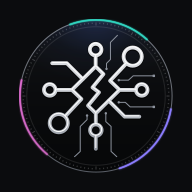
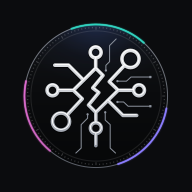
Give the seal padding so its edge isn't clipped at small sizes
The rim's stroke stays at least 1.25px, which outgrew the canvas in the header.
The canvas now leaves room for it, and the header and footer marks go up 2px so
they keep their visual size.

Claude-Session: https://claude.ai/code/session_01U614ADp9nbGW9D51g8CnAr

diff --git a/src/components/site/botlane-seal.tsx b/src/components/site/botlane-seal.tsx
@@ -8,7 +8,9 @@ import { cn } from "@/lib/utils"
 // read their own tokens, so the seal follows the theme; the disc stays dark in both themes, like a button that keeps its own material.
 const R = 376
 const REACH = 512   // half the canvas with the rings on
-const NEAT = R + 2  // half the canvas with the rings off
+// Half the canvas with the rings off. The rim's stroke stays at least 1.25px however small the seal gets, so the padding
+// grows as the size falls: enough for that stroke and 1px clear on every side.
+const neat = (size: number) => Math.ceil(Math.max(R + 26, (R - 2.5) / (1 - ((size < 24 ? 1.75 : 1.25) + 2) / size)))
 const LINE = 18.92     // the bolt's line width
 const ICON = "M-1.7 -199.3L-1.7 -145.1L36.5 -107.3L-17.2 -41.9L14.6 -17.8L-39.1 47.5L-0.9 85.3L-0.9 139.5M-0.9 196.3L-0.9 259.1M-1.7 -145.1L-118.2 -29.9L-198.6 -29.9M-0.9 85.3L115.7 -29.9L196.1 -29.9M-118.2 -29.9L-71.8 14.8L-152.2 100.8M115.7 -29.9L69.2 -74.6L149.6 -160.6M-215.0 -161.0L-143.2 -161.0L-64.5 -82.3M212.4 101.3L140.6 101.3L61.9 22.6M-30.1 -227.7a28.4 28.4 0 1 0 56.8 0a28.4 28.4 0 1 0 -56.8 0ZM-29.2 167.9a28.4 28.4 0 1 0 56.8 0a28.4 28.4 0 1 0 -56.8 0ZM-255.4 -29.9a28.4 28.4 0 1 0 56.8 0a28.4 28.4 0 1 0 -56.8 0ZM196.1 -29.9a28.4 28.4 0 1 0 56.8 0a28.4 28.4 0 1 0 -56.8 0ZM-227.5 133.5a44.7 44.7 0 1 0 89.4 0a44.7 44.7 0 1 0 -89.4 0ZM135.4 -193.3a44.7 44.7 0 1 0 89.4 0a44.7 44.7 0 1 0 -89.4 0Z"
 const BOLT = "M-1.7 -145.1L36.5 -107.3L-17.2 -41.9L14.6 -17.8L-39.1 47.5L-0.9 85.3"  // the spine's zigzag alone, for the tiny size
@@ -66,7 +68,7 @@ const opticalFor = (disc: number): SealOptical => (disc < 24 ? "tiny" : disc < 4
 
 /**
  * The seal. `size` is in pixels. Below 160px the rings are left off unless `rings` asks for them, because they turn to
- * dust; the disc then fills the whole size. The drawing follows the disc's real width on screen:
+ * dust; the disc then fills the size, less a small padding. The drawing follows the disc's real width on screen:
  *
  *   tiny    under 24px   the zigzag alone, heavy and still, on the disc
  *   small   24 to 47px   heavy circuit, no traces or ticks, and a still beam
@@ -84,9 +86,9 @@ const opticalFor = (disc: number): SealOptical => (disc < 24 ? "tiny" : disc < 4
 export function BotlaneSeal({ size = 64, rings, animated = true, optical, lanes = THREE_LANES, tone = "theme", className, label }: { size?: number; rings?: boolean; animated?: boolean; optical?: SealOptical; lanes?: readonly SealLane[]; tone?: SealTone; className?: string; label?: string }) {
   const id = useId().replace(/:/g, "")
   const showRings = rings ?? size >= 160
-  const half = showRings ? REACH : NEAT
+  const half = showRings ? REACH : neat(size)
   const px = size / (half * 2)   // pixels per unit
-  const look = optical ?? opticalFor(R * 2 * px)
+  const look = optical ?? opticalFor(showRings ? R * 2 * px : size)
   const tiny = look === "tiny", small = tiny || look === "small", large = look === "large"
   const line = LINE * (tiny ? 3.4 : small ? 1.75 : large ? 1 : 1.3)
   const art = tiny ? BOLT : ICON

diff --git a/src/components/site/site-footer.tsx b/src/components/site/site-footer.tsx
@@ -32,7 +32,7 @@ export function SiteFooter({ description = "An independent studio for websites a
       <div data-stagger className="mx-auto grid max-w-6xl grid-cols-2 gap-x-4 gap-y-10 px-4 sm:gap-x-6 sm:px-6 pt-14 pb-10 md:grid-cols-[1.4fr_1fr_1fr_1fr] md:gap-12 md:pt-16">
         <div className="col-span-2 grid content-start justify-items-start gap-4 md:col-span-1">
           <Link href="/" className="flex items-center gap-2">
-            <BotlaneMark size={30} id="footer-mark" />
+            <BotlaneMark size={32} id="footer-mark" />
             <span className="text-lg font-semibold tracking-[-0.035em]">botlane</span>
           </Link>
           <p className="max-w-xs text-sm text-muted-foreground">{description}</p>

diff --git a/src/components/site/site-nav.tsx b/src/components/site/site-nav.tsx
@@ -405,7 +405,7 @@ export function SiteNav({ menus, links }: { menus: NavMenu[]; links: { href: str
 
       <div className="relative mx-auto flex h-full max-w-6xl items-center gap-4 px-4 sm:px-6">
         <Link href="/" onClick={close} onMouseEnter={unhover} className="flex items-center gap-2 lg:flex-1">
-          <BotlaneMark size={26} id="nav-mark" />
+          <BotlaneMark size={28} id="nav-mark" />
           <span className="font-semibold tracking-[-0.035em]">botlane</span>
         </Link>
 
